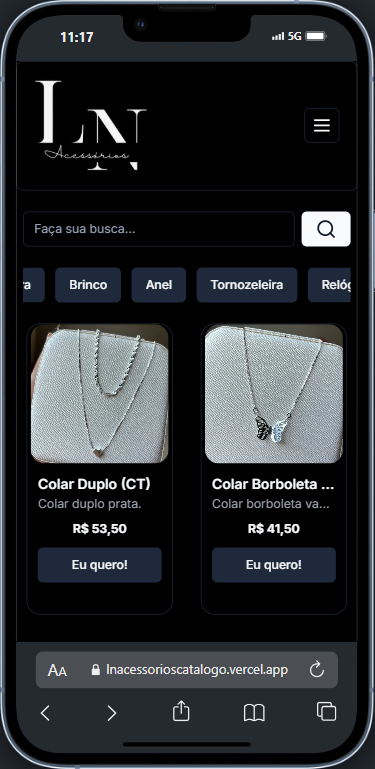
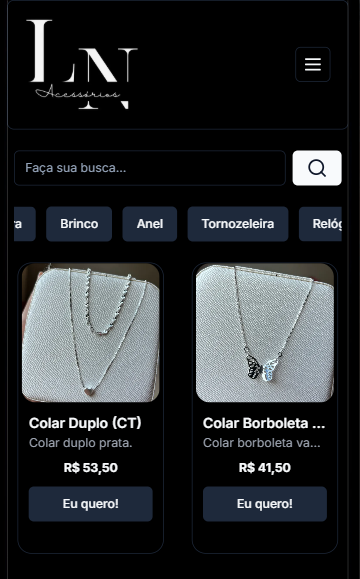
chore: projects styles

diff --git a/src/components/ListaProjetos.tsx b/src/components/ListaProjetos.tsx
@@ -7,7 +7,6 @@ export default function ListaProjetos() {
       titulo: "Portfólio Pessoal",
       descricao: "Projeto feito com Next.js e TSX.",
       imagem: "pubilc/Captura de tela 2025-03-28 111802.png", // Lembre-se de colocar o caminho correto
-      autor: "isadora",
       linkProjeto: "https://isadoraacardoso.github.io/portifolio",
       linkGithub: "https://github.com/isadoraacardoso/portifolio",
       tags: ["Next.js", "Supabase", "TypeScript"],
@@ -16,7 +15,6 @@ export default function ListaProjetos() {
       titulo: "Catálogo de Acessórios",
       descricao: "Catálogo com integração ao banco de dados.",
       imagem: "pubilc/Captura de tela 2025-03-28 111802.png", // Lembre-se de colocar o caminho correto
-      autor: "isadora",
       linkProjeto: "https://isadoraacardoso.github.io/portifolio",
       linkGithub: "https://github.com/isadoraacardoso/portifolio",
       tags: ["Next.js", "Supabase", "TypeScript"],
@@ -25,7 +23,6 @@ export default function ListaProjetos() {
       titulo: "Portfólio Pessoal",
       descricao: "Projeto feito com Next.js e TSX.",
       imagem: "pubilc/Captura de tela 2025-03-28 111802.png", // Lembre-se de colocar o caminho correto
-      autor: "isadora",
       linkProjeto: "https://isadoraacardoso.github.io/portifolio",
       linkGithub: "https://github.com/isadoraacardoso/portifolio",
       tags: ["Next.js", "Supabase", "TypeScript"],
@@ -34,7 +31,6 @@ export default function ListaProjetos() {
       titulo: "Portfólio Pessoal",
       descricao: "Projeto feito com Next.js e TSX.",
       imagem: "pubilc/Captura de tela 2025-03-28 111802.png", // Lembre-se de colocar o caminho correto
-      autor: "isadora",
       linkProjeto: "https://isadoraacardoso.github.io/portifolio",
       linkGithub: "https://github.com/isadoraacardoso/portifolio",
       tags: ["Next.js", "Supabase", "TypeScript"],
@@ -43,7 +39,6 @@ export default function ListaProjetos() {
       titulo: "Portfólio Pessoal",
       descricao: "Projeto feito com Next.js e TSX.",
       imagem: "pubilc/Captura de tela 2025-03-28 111802.png", // Lembre-se de colocar o caminho correto
-      autor: "isadora",
       linkProjeto: "https://isadoraacardoso.github.io/portifolio",
       linkGithub: "https://github.com/isadoraacardoso/portifolio",
       tags: ["Next.js", "Supabase", "TypeScript"],

diff --git a/src/components/CardsProjetos.tsx b/src/components/CardsProjetos.tsx
@@ -5,7 +5,6 @@ type CardProps = {
   titulo: string;
   descricao: string;
   imagem: string;
-  autor: string;
   linkProjeto: string;
   linkGithub: string;
   tags?: string[];
@@ -15,7 +14,6 @@ export default function CardProjetos({
   titulo,
   descricao,
   imagem,
-  autor,
   linkProjeto,
   linkGithub,
   tags = [],
@@ -28,19 +26,18 @@ export default function CardProjetos({
       {tags.length > 0 && <p className={styles.tags}>{tags.join(" • ")}</p>}
 
       <h3 className={styles.titulo}>{titulo}</h3>
-      <span className={styles.autor}>@{autor}</span>
       <p className={styles.descricao}>{descricao}</p>
       <div className={styles.botoes}>
         <a href={linkProjeto} target="_blank" rel="noopener noreferrer">
           <button className={`{styles.botoes} ${isOpen ? "active" : ""}`}>
-            <div className="btn-face-white">Contato</div>
-            <div className="btn-face-purple">Contato</div>
+            <div className="btn-face-white">Ver</div>
+            <div className="btn-face-purple">Ver</div>
           </button>
         </a>
         <a href={linkGithub} target="_blank" rel="noopener noreferrer">
           <button className={`{styles.botoes} ${isOpen ? "active" : ""}`}>
-            <div className="btn-face-white">Contato</div>
-            <div className="btn-face-purple">Contato</div>
+            <div className="btn-face-white">GitHub</div>
+            <div className="btn-face-purple">GitHub</div>
           </button>
         </a>
       </div>

diff --git a/src/styles/CardsProjetos.module.scss b/src/styles/CardsProjetos.module.scss
@@ -19,33 +19,26 @@
   width: 100%;
   height: auto;
   object-fit: contain; // mantém proporção da imagem sem cortar
-  border-bottom: 2px solid #f0f0f0;
-  border-radius: 40px;
+  border-radius: 30px;
 }
 
 .tags {
-  font-size: 0.85rem;
+  font-size: 0.75rem;
   color: #ffffff;
   margin: 0.5rem 0;
 }
 
 .titulo {
-  font-size: 1.2rem;
+  font-size: 1rem;
   font-weight: bold;
-  margin: 20px 0 10px;
+  margin: 10px 0 5px;
   color: #ffffff;
 }
 
 .descricao {
-  font-size: 1rem;
+  font-size: 0.8rem;
   color: #ffffff;
-  padding: 0 20px;
   margin-bottom: 15px;
-}
-
-.autor {
-  font-size: 0.875rem;
-  color: #ffffff;
 }
 
 .botoes {
